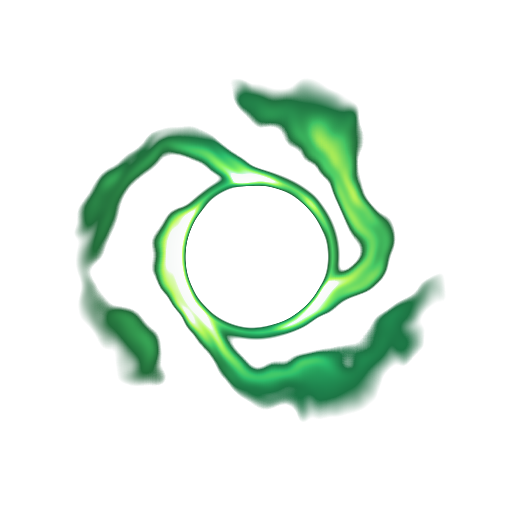
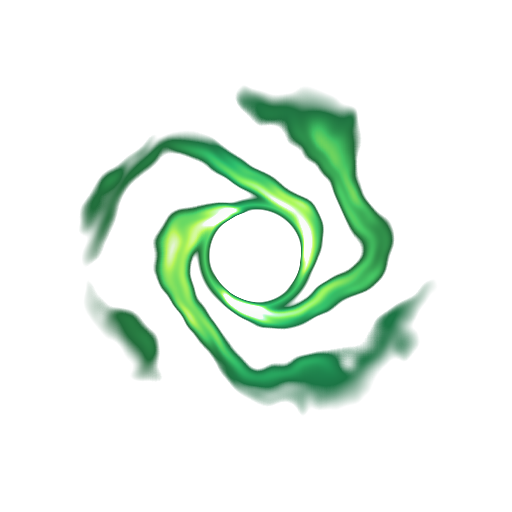
Void Spheres VFX: smaller black core, tighter particle radius

Changed region(s): [[0.125, 0.1562, 0.875, 0.8125]]

diff --git a/tools/wind-void-gen.py b/tools/wind-void-gen.py
@@ -30,7 +30,7 @@ def orb(L,pre,at,life,zend,end_pop=True,lit=True):
             'scale':{'0':.2,'0.1':sc,'0.88':sc,'1':.15},'op':{k:v*o for k,v in op.items()},'fade':0})
     # black core, drawn after the disks so it stays black; toon rim = thin white-hot photon ring on its edge
     L.append({'id':pre+'core','t':'mesh','at':at,'life':life,'att':'feet','shape':'sphere','mat':'toon','col':'#000000','col2':'#000000','rim':1.0,
-        'pos':P(),'scale':{'0':.05,'0.08':.27,'0.9':.27,'1':.05},'op':op,'fade':0})
+        'pos':P(),'scale':{'0':.04,'0.08':.18,'0.9':.18,'1':.04},'op':op,'fade':0})
     # wind bands orbiting the orb on crossed tilts (gyroscope look), 3 colours
     for j,(tex,col,sc,rx,rz,sp) in enumerate([('wind_swoosh_a_hi',G['mint'],.75,60,0,700),('wind_swoosh_b',G['aqua'],.85,-55,40,-620),('wind_swoosh_a_hi',G['lime'],.95,15,-70,540)]):
         L.append({'id':f'{pre}band{j}','t':'mesh','at':at,'life':life,'att':'feet','shape':'model','model':f'wind_pieces{j}','mat':'tex','tex':T(tex),'col':col,'col2':'#000000','rim':0,
@@ -39,16 +39,16 @@ def orb(L,pre,at,life,zend,end_pop=True,lit=True):
     # helix trails: two wind ribbons corkscrewing behind the orb (two colours)
     for h,(c,c2,ph) in enumerate([(G['mint'],G['outer'],0),(G['aqua'],G['teal'],math.pi)]):
         L.append({'id':f'{pre}helix{h}','t':'trail','at':at,'life':life,'att':'feet','col':c,'col2':c2,'w':.07,'tlife':.22,'k':1.0,
-            'pos':{str(round(u,2)):[round(.4*math.cos(u*16+ph),3),round(Y+.4*math.sin(u*16+ph),3),round(1.0+(zend-1.0)*u,3)] for u in K}})
+            'pos':{str(round(u,2)):[round(.32*math.cos(u*16+ph),3),round(Y+.32*math.sin(u*16+ph),3),round(1.0+(zend-1.0)*u,3)] for u in K}})
     L.append({'id':pre+'tail','t':'trail','at':at,'life':life,'att':'feet','pos':P(),'col':G['lime'],'col2':G['deep'],'w':.12,'tlife':.16,'k':1.0})
     # wind pulled into the hole (two colours), chips spiralling in, motes orbiting
-    for j,(c,c2,fr) in enumerate([(G['lime'],G['aqua'],1.3),(G['inner'],G['mid'],.9)]):
+    for j,(c,c2,fr) in enumerate([(G['lime'],G['aqua'],1.0),(G['inner'],G['mid'],.7)]):
         L.append({'id':f'{pre}suck{j}','t':'emit','at':at,'life':life,'att':'feet','pos':P(),'rate':90,'from':'sphere','fr':fr,'dir':'in','speed':[3.5,6],'plife':[.12,.22],
             'look':'streak','size':[.7,1.3],'col':c,'c2':c2,'gravity':0,'drag':0,'curl':False})
-    L.append({'id':pre+'chips','t':'emit','at':at,'life':life,'att':'feet','pos':P(),'rate':30,'from':'ring','fr':1.1,'dir':'tangent','speed':[3,5],'plife':[.25,.4],
+    L.append({'id':pre+'chips','t':'emit','at':at,'life':life,'att':'feet','pos':P(),'rate':30,'from':'ring','fr':.8,'dir':'tangent','speed':[3,5],'plife':[.25,.4],
         'look':'model','model':'wind_wing_airchip','mmat':'glow','msize':[.05,.11],'col':G['mint'],'c2':G['teal'],'mspin':600,'gravity':0,'drag':3,'bounce':0,'x':True})
     for j,(c,c2) in enumerate([(G['mint'],G['teal']),(G['lime'],G['outer'])]):
-        L.append({'id':f'{pre}spark{j}','t':'emit','at':at,'life':life,'att':'feet','pos':P(),'rate':45,'from':'ring','fr':1.0+.3*j,'dir':'tangent','speed':[2.5,4.5],'plife':[.2,.35],
+        L.append({'id':f'{pre}spark{j}','t':'emit','at':at,'life':life,'att':'feet','pos':P(),'rate':45,'from':'ring','fr':.75+.2*j,'dir':'tangent','speed':[2.5,4.5],'plife':[.2,.35],
             'look':'glow','size':[.4,.8],'col':c,'c2':c2,'gravity':0,'drag':1,'x':True})
     # no bulge warp: it redraws the scene over the black core
     #L.append({'id':pre+'warp','t':'warp','at':at,'life':life,'att':'feet','pos':P(),'kind':'bulge','size':1.6,'str':.6,'op':op,'col':G['inner'],'glow':0,'x':True})

diff --git a/tools/wind-void-tex.py b/tools/wind-void-tex.py
@@ -70,8 +70,8 @@ A2 = [(0, '#ffffff'), (0.07, '#e8ffc0'), (0.3, '#c6ff5a'), (0.65, '#4fd66a'), (1
 B1 = [(0, '#d0fff4'), (0.2, '#5cf0c8'), (0.55, '#21b89a'), (1, '#0f4a48')]
 B2 = [(0, '#e0ffe0'), (0.2, '#7dffa0'), (0.55, '#2ec772'), (1, '#124a2a')]
 
-save('wind_void_disk', disk(7, 3, 2.4, 0.27, 0.95, A1, A2, 2.2, 1.0),
+save('wind_void_disk', disk(7, 3, 2.4, 0.17, 0.95, A1, A2, 2.2, 1.0),
      'Void Spheres: แผ่นจานหลุมดำวงใน (ขาว-มิ้นต์-เขียวนีออน-เขียวมะนาว) แขนลมบิดเกลียว รูกลางโปร่ง — หมุนด้วย spin ของชั้น')
-save('wind_void_disk_b', disk(19, 4, 1.7, 0.2, 0.98, B1, B2, 1.6, 1.4),
+save('wind_void_disk_b', disk(19, 4, 1.7, 0.12, 0.98, B1, B2, 1.6, 1.4),
      'Void Spheres: แผ่นจานหลุมดำวงนอก (เขียวน้ำทะเล-ฟ้าอมเขียว-เขียวเข้ม) แขนกว้างกว่า หมุนสวนทาง')
 print('ok')

diff --git a/notes/CHANGELOG.md b/notes/CHANGELOG.md
@@ -1,5 +1,6 @@
 # Changelog (newest first in the 2026-10-19+ entries, then oldest → newest)
 
+- 2026-10-28 — **Void Spheres: smaller black core and tighter particles (user)** — the core radius is 0.18 m. The disk texture holes are smaller (r_in .17 / .12), so the swirl hugs the core. The suck-in, chip and mote rings and the helix trails are tighter.
 - 2026-10-28 — **Void Spheres: smaller orb with more around it (user)** — the disks are about 40% smaller and the core radius is 0.27 m. Added 3 wind bands orbiting on crossed tilts (mint, aqua, lime), 2-colour suck-in streaks, wind chips spiralling around the orb and 2 rings of orbiting motes. Helix trails are tighter.
 - 2026-10-28 — **Wind Void Spheres VFX draft (user reference picture)** — new disk textures `tex/wind_void_disk` and `_b` (`tools/wind-void-tex.py`: swirl arms in several wind colours with a clear centre), `wind/void_spheres` demo (3 orbs; orb 1 drags the enemy into the wind wall, which makes a stun burst) and `wind/void_orb` (looping single orb) from `tools/wind-void-gen.py`. Black toon core with a rim photon ring is drawn after the disks. No ink. Waiting for the user's review; not bound in game.
 - 2026-10-28 — **Windrift VFX approved (user)** — `wind/windrift` approved as is; storyboard #8 marked done. Not bound in game yet; the Windrift skill code does not exist.
